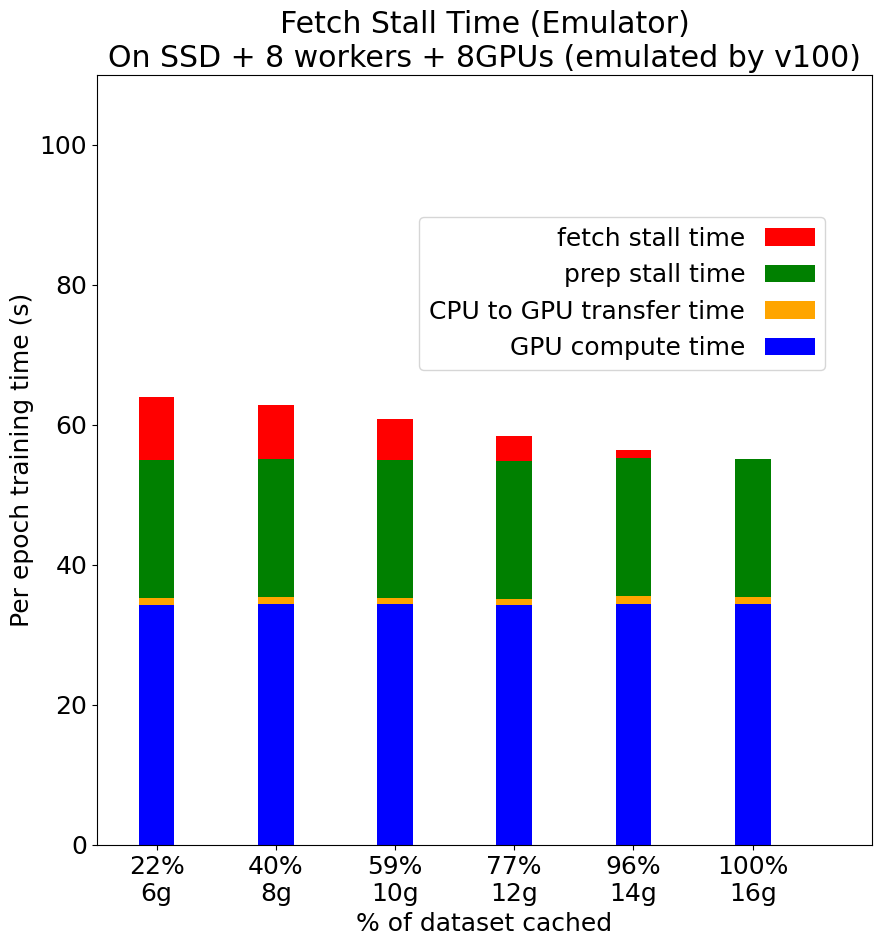
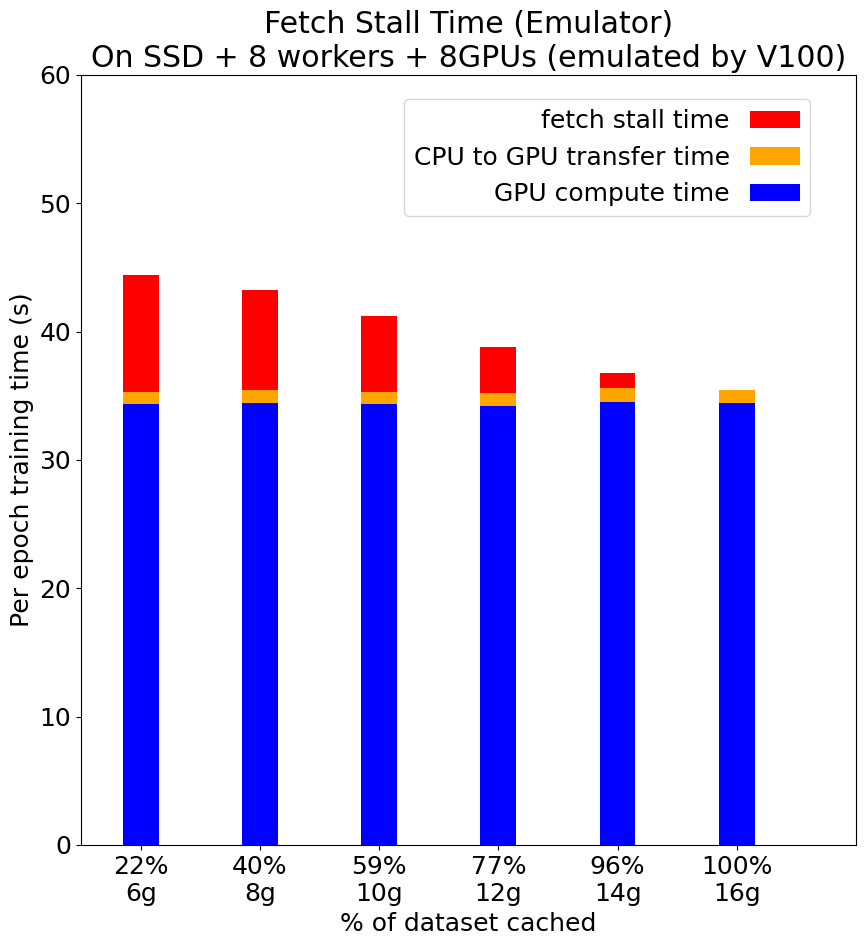
updated grapher(a)

diff --git a/make_figures/make_graph_fig4/grapher_a.py b/make_figures/make_graph_fig4/grapher_a.py
@@ -8,7 +8,7 @@ textfontsize = 18
 textfontcolor = 'purple'
 anotation_color = textfontcolor
 
-prep_time = 19.63715386
+prep_time = 0
 
 plt.rcParams["font.family"] = "Helvetica"
 plt.rcParams["font.size"] = 18
@@ -22,15 +22,17 @@ schemes = {}
 local = {}
 df = pd.read_csv('time4(a).dat', sep='\t', header=None, names=columns)
 
-sizes = [6,8,10,12,14,16]
+sizes = [6, 8, 10, 12, 14, 16]
 io = df['io'].tolist()
 cpu2gpu = df['cpu2gpu'].tolist()
 gpu = df['gpu'].tolist()
 
+# must be modified. 
+ideal = [0.000, 0.000, 0.000, 0.000, 0.000, 0.000]
 # create plot
 fig, ax1 = plt.subplots(1, 1)
 
-ax1.set_ylim(0,110)
+ax1.set_ylim(0,60)
 ax1.set_xlim(-0.5,6)
 # ax1.set_yticks([2800])
 ax1.tick_params(axis='y', labelsize=20)
@@ -55,35 +57,21 @@ label='CPU to GPU transfer time'
 )
 
 bottom = [bottom[i]+cpu2gpu[i] for i in range(len(bottom))]
-prepbars = ax1.bar(xtics, prep_time, bar_width, bottom=bottom,
-color='green',
-label='prep stall time'
-)
-
-bottom = [bottom[i]+prep_time for i in range(len(bottom))]
 iobars = ax1.bar(xtics, io, bar_width, bottom=bottom,
 color='red',
 label='fetch stall time'
 )
-
-# local_bot = ax1.bar(index+i*bar_width, local[i], bar_width, bottom=schemes[i],
-# alpha=opacity,
-# fill=False,
-# edgecolor=colors[i],
-# hatch='\\',
-# label='RS{}-L'.format(i+1)
-# )
 
 ax1.set_ylabel('Per epoch training time (s)', fontsize=18)
 ax1.set_xlabel('% of dataset cached', fontsize=18)
 
 plt.xticks(xtics, xlabels)
 plt.yticks(fontsize=18)
-plt.title('Fetch Stall Time (Emulator)\nOn SSD + 8 workers + 8GPUs (emulated by v100)')
+plt.title('Fetch Stall Time (Emulator)\nOn SSD + 8 workers + 8GPUs (emulated by V100)')
 
 # legend reverse order
 handles, labels = plt.gca().get_legend_handles_labels()
-ax1.legend(reversed(handles), reversed(labels), markerfirst=False, bbox_to_anchor=(0.4, 0.6))
+ax1.legend(reversed(handles), reversed(labels), markerfirst=False, bbox_to_anchor=(0.4, 0.8))
 # ax2.legend(loc=(0.01, 0.97), ncol=4, frameon=False, markerfirst=False)
 # ax1.legend()
 

diff --git a/make_figures/make_graph_fig4/grapher_b.py b/make_figures/make_graph_fig4/grapher_b.py
@@ -26,6 +26,8 @@ sizes = [14,16,18,20,22,24]
 io = df['io'].tolist()
 cpu2gpu = df['cpu2gpu'].tolist()
 gpu = df['gpu'].tolist()
+
+# must be modified. 
 ideal = [158.846, 109.486, 10.627, 1.145, 0.421, 0.000]
 # create plot
 fig, ax1 = plt.subplots(1, 1)
